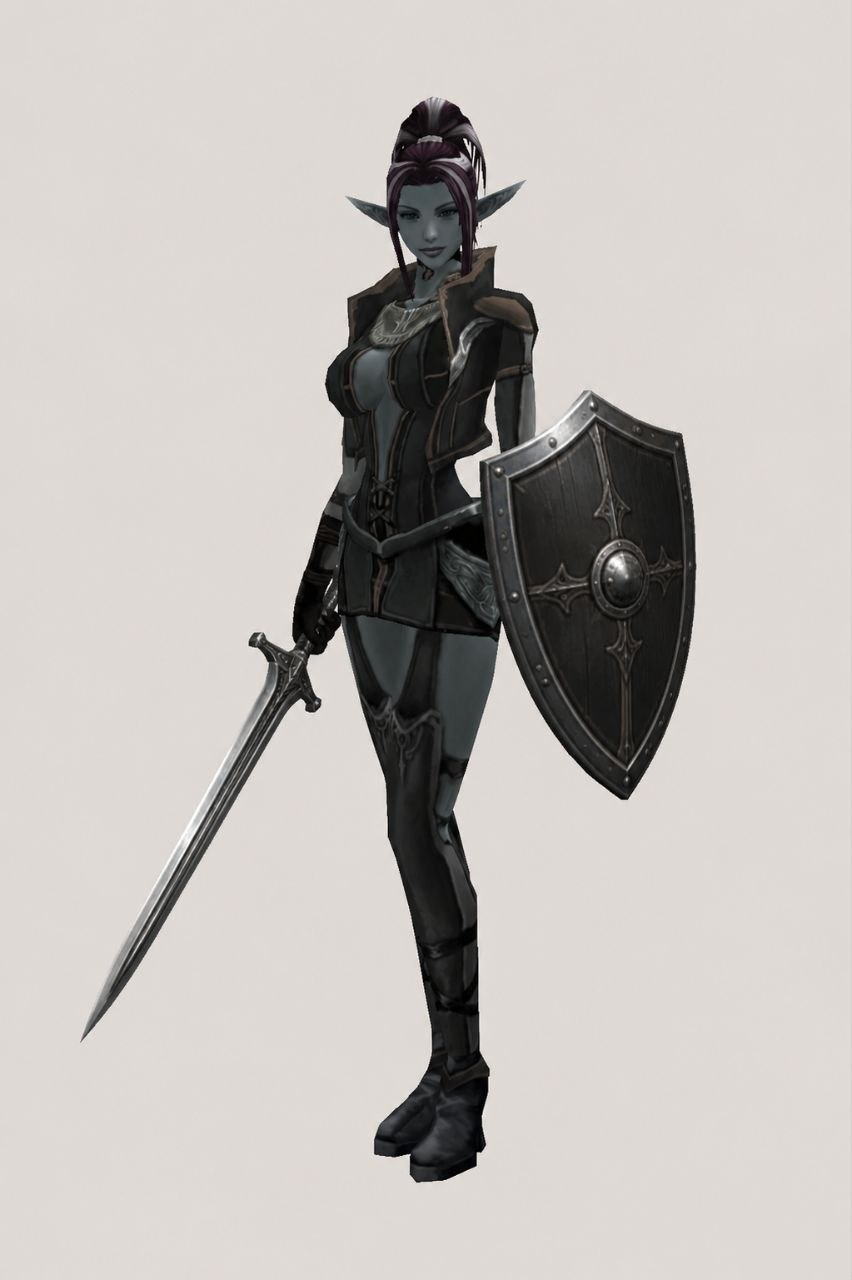
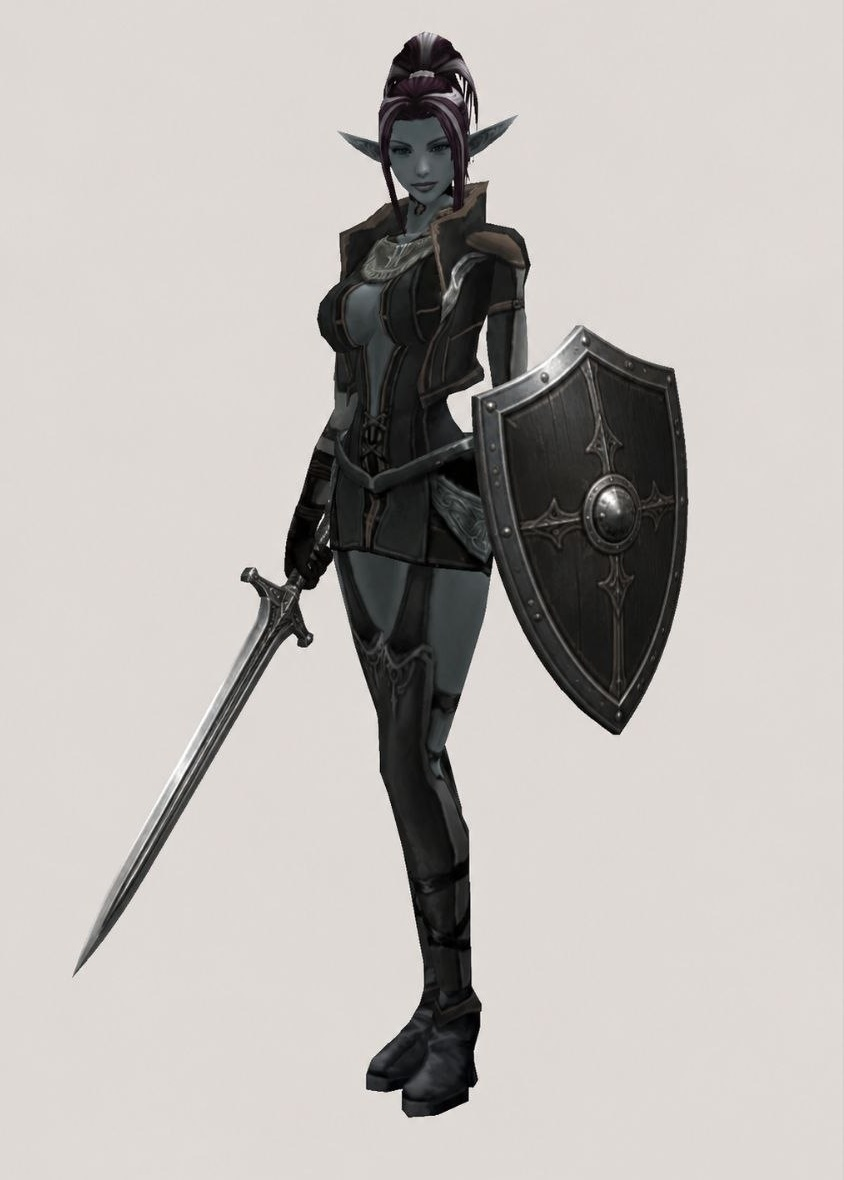
Fix inventory sorting

Changed region(s): [[0.1232, 0.0305, 0.8318, 0.9458], [0.0924, 0.7932, 0.1232, 0.8237]]

diff --git a/server/public/player.html b/server/public/player.html
@@ -10,7 +10,7 @@
     <link rel="stylesheet" href="/css/l2-chrome-ui.css?v=20260717perf2" />
     <link rel="stylesheet" href="/css/l2-char-222-skin.css?v=20260711nickTone1" />
     <link rel="stylesheet" href="/css/l2-character-page.css?v=20260711nickTone1" />
-    <link rel="stylesheet" href="/css/l2-player-page.css?v=20260711profStatus3" />
+    <link rel="stylesheet" href="/css/l2-player-page.css?v=20260718playerStats1" />
     <link rel="stylesheet" href="/css/l2-recommend-nick-page.css?v=20260711recBlue1" />
   </head>
   <body
@@ -89,13 +89,109 @@
                           alt=""
                           decoding="async"
                         />
-                      </div>
                     </div>
                   </div>
                 </div>
+                <p class="l2-character-hero-power" aria-label="Мощ героя">
+                  <span class="l2-character-hero-power__label">Мощ:</span>
+                  <span class="l2-character-hero-power__val" id="player-hero-power">—</span>
+                </p>
+              </div>
+            </div>
+
+            <div class="l2-character-stats l2-player-stats" id="player-stats">
+              <div class="l2-character-row l2-character-row--stat">
+                <img
+                  class="l2-character-row__ico"
+                  src="/assets/assets/photo_2026-07-05_12-53-25.jpg"
+                  alt=""
+                  width="14"
+                  height="14"
+                  decoding="async"
+                />
+                <span class="l2-character-row__label">Рівень:</span>
+                <span class="l2-character-row__val l2-character-row__val--white" id="player-level">—</span>
               </div>
 
-              <div class="l2-player-social-actions" id="player-social-actions">
+              <div class="l2-character-row l2-character-row--stat">
+                <img
+                  class="l2-character-row__ico"
+                  src="/assets/assets/photo_2026-07-05_12-52-57.jpg"
+                  alt=""
+                  width="14"
+                  height="14"
+                  decoding="async"
+                />
+                <span class="l2-character-row__label">Адена:</span>
+                <span class="l2-character-row__val l2-character-row__val--white" id="player-adena">0</span>
+              </div>
+
+              <div class="l2-character-row l2-character-row--stat">
+                <img
+                  class="l2-character-row__ico"
+                  src="/assets/assets/photo_2026-07-05_12-52-57.jpg"
+                  alt=""
+                  width="14"
+                  height="14"
+                  decoding="async"
+                />
+                <span class="l2-character-row__label">Coin of Luck:</span>
+                <span class="l2-character-row__val l2-character-row__val--white" id="player-coin-luck">0</span>
+              </div>
+
+              <div class="l2-character-row l2-character-row--stat">
+                <img
+                  class="l2-character-row__ico"
+                  src="/assets/assets/photo_2026-07-05_12-52-57.jpg"
+                  alt=""
+                  width="14"
+                  height="14"
+                  decoding="async"
+                />
+                <span class="l2-character-row__label">Досвід:</span>
+                <span class="l2-character-row__val l2-character-row__val--white" id="player-exp">0</span>
+              </div>
+
+              <div class="l2-character-row l2-character-row--info">
+                <img
+                  class="l2-character-row__ico"
+                  src="/assets/assets/photo_2026-07-05_12-52-12.jpg"
+                  alt=""
+                  width="14"
+                  height="14"
+                  decoding="async"
+                />
+                <span class="l2-character-row__info">Кількість отримуваного досвіду:</span>
+              </div>
+
+              <div class="l2-character-row l2-character-row--stat">
+                <img
+                  class="l2-character-row__ico"
+                  src="/assets/assets/photo_2026-07-05_12-52-12.jpg"
+                  alt=""
+                  width="14"
+                  height="14"
+                  decoding="async"
+                />
+                <span class="l2-character-row__label">Очки умінь:</span>
+                <span class="l2-character-row__val l2-character-row__val--white" id="player-sp">0</span>
+              </div>
+
+              <div class="l2-character-row l2-character-row--stat l2-character-row--all-white">
+                <img
+                  class="l2-character-row__ico"
+                  src="/assets/assets/photo_2026-07-05_12-52-44.jpg"
+                  alt=""
+                  width="14"
+                  height="14"
+                  decoding="async"
+                />
+                <span class="l2-character-row__label">Професія:</span>
+                <span class="l2-character-row__val l2-character-row__val--white" id="player-profession">—</span>
+              </div>
+            </div>
+
+            <div class="l2-player-social-actions" id="player-social-actions">
                 <button type="button" class="l2-player-social-actions__btn" data-stub="Запросити в групу">
                   Запросити в групу
                 </button>
@@ -162,6 +258,6 @@
     <script src="/ui-i18n.js"></script>
     <script src="/l2-nav.js?v=20260717perf2"></script>
     <script src="/charHeroPortrait.js?v=20260713hfWarlordF3"></script>
-    <script src="/player.js?v=20260711recBlue1"></script>
+    <script src="/player.js?v=20260718playerStats1"></script>
   </body>
 </html>

diff --git a/server/public/css/l2-player-page.css b/server/public/css/l2-player-page.css
@@ -33,9 +33,101 @@ body.l2-app-l2-chrome.l2-page-player .l2-player-hero-panel {
 
 body.l2-app-l2-chrome.l2-page-player .l2-player-hero-panel .l2-char-photo-wrap {
   display: flex;
+  flex-direction: column;
+  align-items: center;
   justify-content: center;
   margin: 0 auto;
   max-width: 320px;
+}
+
+body.l2-app-l2-chrome.l2-page-player .l2-character-hero-power {
+  width: 100%;
+  max-width: 300px;
+  margin: 8px auto 12px;
+  padding: 0;
+  text-align: center;
+  font-size: 14px;
+  line-height: 1.35;
+}
+
+body.l2-app-l2-chrome.l2-page-player .l2-character-hero-power__label {
+  color: #fff;
+  font-weight: 600;
+}
+
+body.l2-app-l2-chrome.l2-page-player .l2-character-hero-power__val {
+  color: #bfa88a;
+  font-weight: 700;
+}
+
+body.l2-app-l2-chrome.l2-page-player .l2-player-stats {
+  display: flex;
+  flex-direction: column;
+  margin: 0 0 12px;
+  padding: 0;
+}
+
+body.l2-app-l2-chrome.l2-page-player .l2-player-stats .l2-character-row {
+  box-sizing: border-box;
+  display: flex;
+  align-items: center;
+  flex-wrap: wrap;
+  gap: 6px;
+  width: 100%;
+  margin: 0;
+  padding: 6px 0;
+  border: 0;
+  border-bottom: 1px solid rgba(48, 48, 48, 0.88);
+  border-radius: 0;
+  background: transparent;
+  font: inherit;
+  font-size: 12px;
+  line-height: 1.35;
+  text-align: left;
+  text-decoration: none;
+  color: #d8ccb0;
+  cursor: default;
+  -webkit-tap-highlight-color: transparent;
+}
+
+body.l2-app-l2-chrome.l2-page-player .l2-player-stats > .l2-character-row:first-child {
+  border-top: 1px dotted rgba(80, 80, 80, 0.75);
+}
+
+body.l2-app-l2-chrome.l2-page-player .l2-player-stats .l2-character-row__ico {
+  flex-shrink: 0;
+  width: 14px;
+  height: 14px;
+  object-fit: contain;
+  pointer-events: none;
+}
+
+body.l2-app-l2-chrome.l2-page-player .l2-player-stats .l2-character-row__label {
+  color: #d8ccb0;
+}
+
+body.l2-app-l2-chrome.l2-page-player .l2-player-stats .l2-character-row__val {
+  color: #d8ccb0;
+}
+
+body.l2-app-l2-chrome.l2-page-player .l2-player-stats .l2-character-row__val--white {
+  color: #fff;
+  font-weight: 600;
+}
+
+body.l2-app-l2-chrome.l2-page-player .l2-player-stats .l2-character-row__info {
+  color: #fff;
+}
+
+body.l2-app-l2-chrome.l2-page-player
+  .l2-player-stats
+  .l2-character-row--all-white
+  .l2-character-row__label,
+body.l2-app-l2-chrome.l2-page-player
+  .l2-player-stats
+  .l2-character-row--all-white
+  .l2-character-row__val {
+  color: #fff;
 }
 
 body.l2-app-l2-chrome.l2-page-player .l2-player-hero-panel .l2-char-equip-frame--hero-only {

diff --git a/server/public/player.js b/server/public/player.js
@@ -16,6 +16,36 @@
     return dd + '.' + mm + '.' + yyyy;
   }
 
+  function fmtNum(s) {
+    if (s == null || s === '') return '0';
+    try {
+      return BigInt(String(s)).toString().replace(/\B(?=(\d{3})+(?!\d))/g, '\u202f');
+    } catch (_e) {
+      return String(s);
+    }
+  }
+
+  function fmtInt(n) {
+    if (n == null || n === '') return '0';
+    var v = Number(n);
+    if (!Number.isFinite(v)) return '0';
+    return String(Math.trunc(v));
+  }
+
+  function formatHeroPower(n) {
+    var v = Number(n);
+    if (!Number.isFinite(v)) return '1\u202f000';
+    return String(Math.trunc(v)).replace(/\B(?=(\d{3})+(?!\d))/g, '\u202f');
+  }
+
+  function professionLabel(p) {
+    if (window.L2 && typeof L2.hudL2ProfessionUkFromSnapshot === 'function') {
+      return L2.hudL2ProfessionUkFromSnapshot(p);
+    }
+    if (!p || p.l2Profession == null) return '—';
+    return String(p.l2Profession);
+  }
+
   function formatLastSeenUk(iso) {
     if (!iso) return 'Офлайн';
     var then = Date.parse(String(iso));
@@ -131,6 +161,19 @@
 
     applyOnlineLine(p);
 
+    var powerEl = $('player-hero-power');
+    if (powerEl) {
+      powerEl.textContent = formatHeroPower(p.heroPower);
+    }
+
+    var levelEl = $('player-level');
+    if (levelEl) levelEl.textContent = p.level != null ? fmtInt(p.level) : '—';
+    set('player-adena', p.adena != null ? fmtNum(p.adena) : '0');
+    set('player-coin-luck', p.coinOfLuck != null ? fmtNum(p.coinOfLuck) : '0');
+    set('player-exp', p.exp != null ? fmtNum(p.exp) : '0');
+    set('player-sp', p.sp != null ? fmtInt(p.sp) : '0');
+    set('player-profession', professionLabel(p));
+
     var regEl = $('player-registered');
     if (regEl) {
       regEl.textContent = 'Рег-я: ' + formatRegisteredUk(p.registeredAt);
@@ -140,6 +183,18 @@
   }
 
   function wireStubs() {
+    var statsRoot = $('player-stats');
+    if (statsRoot) {
+      statsRoot.querySelectorAll('.l2-character-row__ico').forEach(function (icon) {
+        if (icon.dataset.fallbackWired === '1') return;
+        icon.dataset.fallbackWired = '1';
+        icon.addEventListener('error', function onIconError() {
+          icon.removeEventListener('error', onIconError);
+          icon.src = '/icons/drops/other.svg';
+        });
+      });
+    }
+
     document.querySelectorAll('[data-stub]').forEach(function (btn) {
       if (btn.dataset.stubWired === '1') return;
       btn.dataset.stubWired = '1';

diff --git a/server/src/services/playerPublicProfileService.ts b/server/src/services/playerPublicProfileService.ts
@@ -1,5 +1,10 @@
+import { countBagQty, parseInventory } from '../data/inventory.js';
+import { levelFromTotalExp } from '../data/l2dopExpgain.js';
 import { MAP_TOWNS } from '../data/mapLocalities.js';
+import { COIN_OF_LUCK_ITEM_ID } from '../domain/dailyQuestRewards.js';
 import { prisma } from '../lib/prisma.js';
+import { resolveHeroPowerFromCharacterRow } from './charSnapshotLogic.js';
+import type { CharacterRow } from './charTypes.js';
 import { isCharacterOnlineNow } from './onlinePresenceService.js';
 
 export type PlayerPublicProfileDto = {
@@ -21,6 +26,11 @@ export type PlayerPublicProfileDto = {
   mobsKilled: number;
   pvpWins: number;
   pvpLosses: number;
+  heroPower: number;
+  adena: string;
+  coinOfLuck: number;
+  exp: string;
+  sp: number;
   /** ISO — остання активність (для «був у мережі …»). */
   lastSeenAt: string;
   isOnline: boolean;
@@ -36,10 +46,19 @@ const PROFILE_SELECT = {
   gender: true,
   l2Profession: true,
   cityId: true,
+  adena: true,
+  exp: true,
+  sp: true,
   mobsKilled: true,
   karma: true,
   profileStatus: true,
   lastUpdate: true,
+  inventoryJson: true,
+  skillsLearnedJson: true,
+  activeBuffsJson: true,
+  buffHeroicTier: true,
+  buffZealotStacks: true,
+  worldCombatStateJson: true,
   clan: { select: { name: true } },
 } as const;
 
@@ -52,10 +71,19 @@ type ProfileRow = {
   gender: string;
   l2Profession: string;
   cityId: string;
+  adena: bigint;
+  exp: bigint;
+  sp: number;
   mobsKilled: number;
   karma: number;
   profileStatus: string | null;
   lastUpdate: Date;
+  inventoryJson: unknown;
+  skillsLearnedJson: unknown;
+  activeBuffsJson: unknown;
+  buffHeroicTier: number | null;
+  buffZealotStacks: number | null;
+  worldCombatStateJson: unknown;
   clan: { name: string } | null;
 };
 
@@ -66,10 +94,13 @@ function resolveCityLabelUk(cityId: string): string {
 }
 
 function rowToProfile(row: ProfileRow): PlayerPublicProfileDto {
+  const inv = parseInventory(row.inventoryJson ?? null);
+  const effectiveLevel = levelFromTotalExp(row.exp);
+  const heroRow = row as CharacterRow;
   return {
     id: row.id,
     name: row.name,
-    level: row.level,
+    level: effectiveLevel,
     race: row.race,
     classBranch: row.classBranch,
     gender: row.gender,
@@ -88,6 +119,11 @@ function rowToProfile(row: ProfileRow): PlayerPublicProfileDto {
     mobsKilled: Math.max(0, Math.floor(Number(row.mobsKilled) || 0)),
     pvpWins: 0,
     pvpLosses: 0,
+    heroPower: resolveHeroPowerFromCharacterRow(heroRow),
+    adena: row.adena.toString(),
+    coinOfLuck: countBagQty(inv, COIN_OF_LUCK_ITEM_ID),
+    exp: row.exp.toString(),
+    sp: Math.max(0, Math.floor(Number(row.sp) || 0)),
     lastSeenAt: row.lastUpdate.toISOString(),
     isOnline: isCharacterOnlineNow(row.id),
     registeredAt: row.lastUpdate.toISOString(),